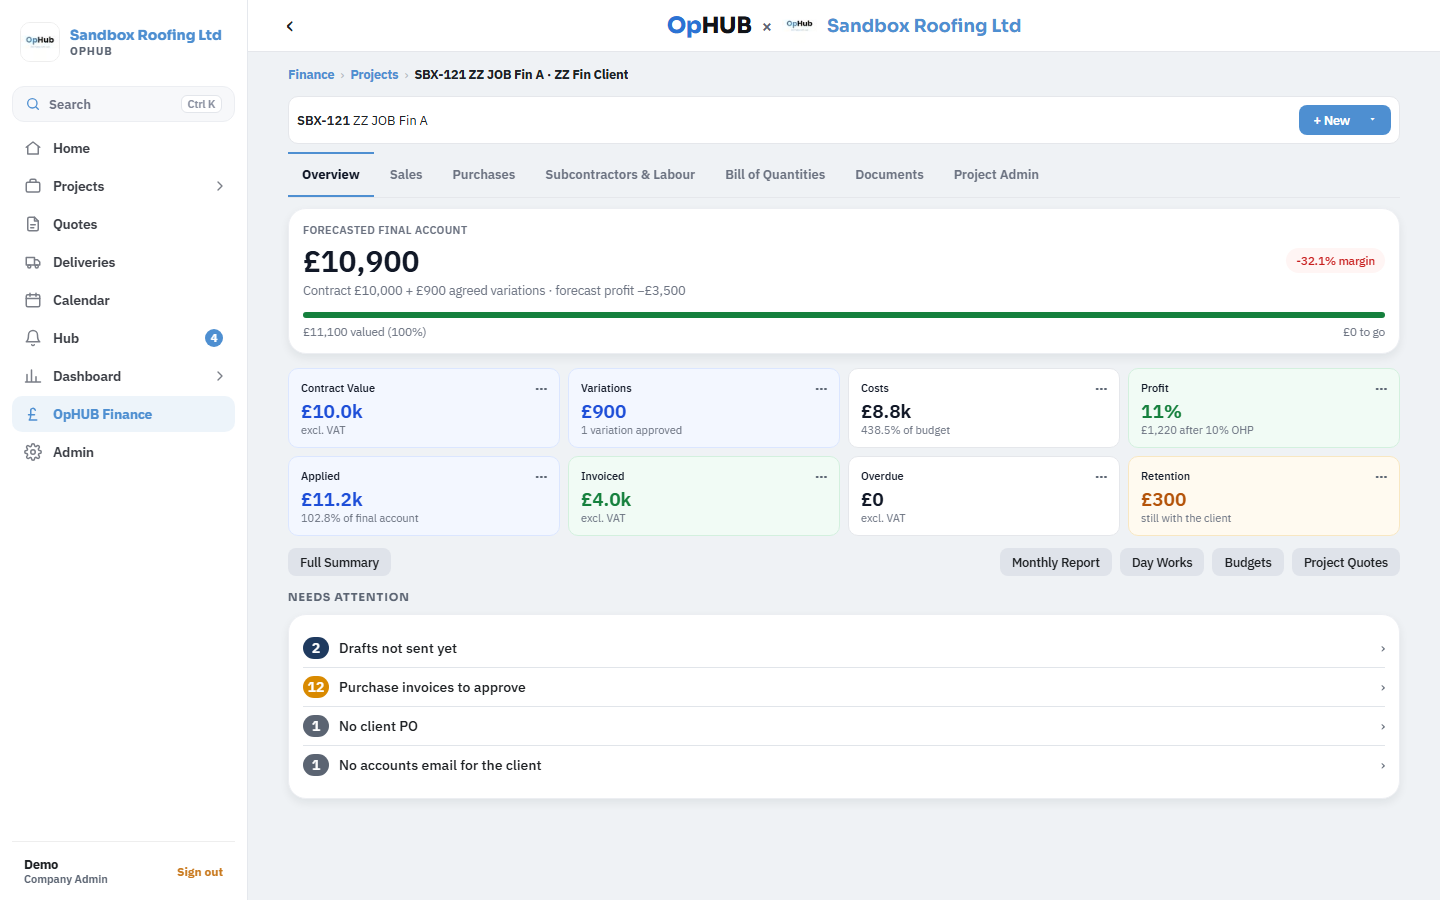
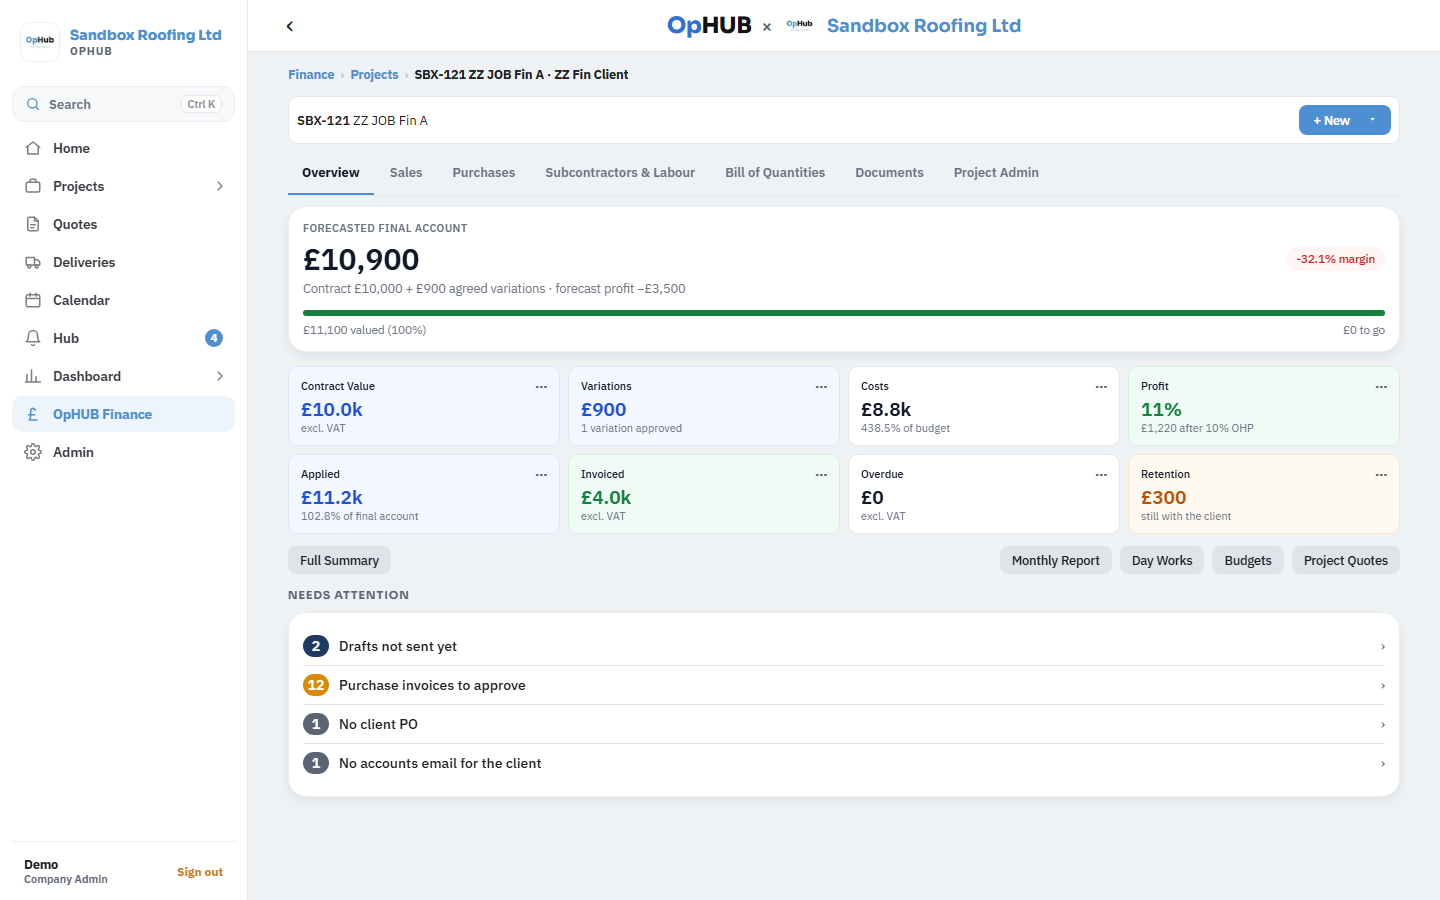
Finance tabs: back to one line under the chosen tab.
Claude-Session: https://claude.ai/code/session_012KhfNvBEbifMJmPdX7yZfp

diff --git a/app-native/src/components/FinNav.tsx b/app-native/src/components/FinNav.tsx
@@ -68,7 +68,7 @@ export function FinJobTabs({ id, active, job, name, onOverview }: { id: string; 
       </View>
       <FinTabRow style={{ marginTop: 6, marginBottom: 0 }}>
         {tabs.map(([k, l]) => (
-          <Pressable key={k} onPress={() => go(k)} style={{ paddingVertical: 12, paddingHorizontal: 14, borderTopWidth: 2, borderBottomWidth: 2, borderTopColor: active === k ? t.brand1 : 'transparent', borderBottomColor: active === k ? t.brand1 : 'transparent' }}>
+          <Pressable key={k} onPress={() => go(k)} style={{ paddingVertical: 12, paddingHorizontal: 14, borderBottomWidth: 2, borderBottomColor: active === k ? t.brand1 : 'transparent' }}>
             <Text style={{ fontSize: 13, fontWeight: active === k ? '700' : '600', color: active === k ? '#111827' : '#6b7280' }}>{l}</Text>
           </Pressable>
         ))}
@@ -106,7 +106,7 @@ export function FinPage({ title, section, sub, onSub, badges, children, wide, to
         <>
           <FinTabRow style={{ marginTop: 10 }}>
             {FIN_SECTIONS.map((s) => (
-              <Pressable key={s.k} onPress={() => router.replace(s.go as never)} style={{ paddingVertical: 12, paddingHorizontal: 14, borderTopWidth: 2, borderBottomWidth: 2, borderTopColor: s.k === section ? t.brand1 : 'transparent', borderBottomColor: s.k === section ? t.brand1 : 'transparent' }}>
+              <Pressable key={s.k} onPress={() => router.replace(s.go as never)} style={{ paddingVertical: 12, paddingHorizontal: 14, borderBottomWidth: 2, borderBottomColor: s.k === section ? t.brand1 : 'transparent' }}>
                 <Text style={{ fontSize: 13, fontWeight: s.k === section ? '700' : '600', color: s.k === section ? '#111827' : '#6b7280' }}>{s.l}</Text>
               </Pressable>
             ))}
